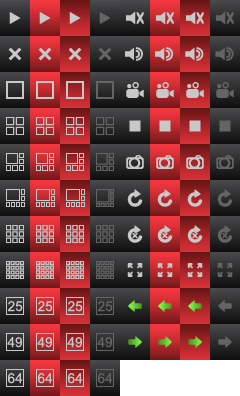
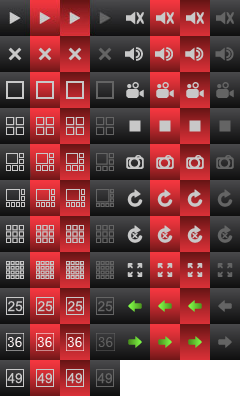
add 6*6 screen

diff --git a/web/index.html b/web/index.html
@@ -168,8 +168,8 @@
 						<li class="setViewNum hover" style="background-position: 0 -216px;" onclick="setViewMod('div3_3')"></li>
 						<li class="setViewNum hover" style="background-position: 0 -252px;" onclick="setViewMod('div4_4')"></li>
 						<li class="setViewNum hover" style="background-position: 0 -288px;" onclick="setViewMod('div5_5')"></li>
-						<li class="setViewNum hover" style="background-position: 0 -324px;" onclick="setViewMod('div7_7')"></li>
-						<li class="setViewNum hover" style="background-position: 0 -360px;" onclick="setViewMod('div8_8')"></li>
+						<li class="setViewNum hover" style="background-position: 0 -324px;" onclick="setViewMod('div6_6')"></li>
+                        <li class="setViewNum hover" style="background-position: 0 -360px;" onclick="setViewMod('div7_7')"></li>
 						<!-- <li class="setViewNum hover" style="background-position: 0 -324px;"></li>
 							<li class="setViewNum hover" style="background-position: 0 -360px;"></li> -->
 					</ul>

diff --git a/web/device.html b/web/device.html
@@ -1705,8 +1705,9 @@
 									<li><input data="div3_3" value="9 Screen" /></li>
 									<li><input data="div4_4" value="16 Screen" /></li>
 									<li><input data="div5_5" value="25 Screen" /></li>
+                                    <li><input data="div6_6" value="36 Screen" /></li>
 									<li><input data="div7_7" value="49 Screen" /></li>
-									<li><input data="div8_8" value="64 Screen" /></li>
+									<!--<li><input data="div8_8" value="64 Screen" /></li>-->
 								</ul>
 							</td>
 						</tr>

diff --git a/web/js/deviceset.js b/web/js/deviceset.js
@@ -422,7 +422,7 @@ var oSearchOcx,
 	///$(window).resize(set_contentMax)
 
 
-	var SplitScreenMode={'div1_1':'1','div2_2':'4','div6_1':'6','div8_1':'8','div3_3':'9','div4_4':'16','div5_5':'25','div7_7':'49','div8_8':'64'}
+	var SplitScreenMode={'div1_1':'1','div2_2':'4','div6_1':'6','div8_1':'8','div3_3':'9','div4_4':'16','div5_5':'25','div6_6':'36','div7_7':'49'/*,'div8_8':'64'*/}
 		for(i in SplitScreenMode){
 			SplitScreenMode[i]=SplitScreenMode[i]+_T('Screen');
 		}
